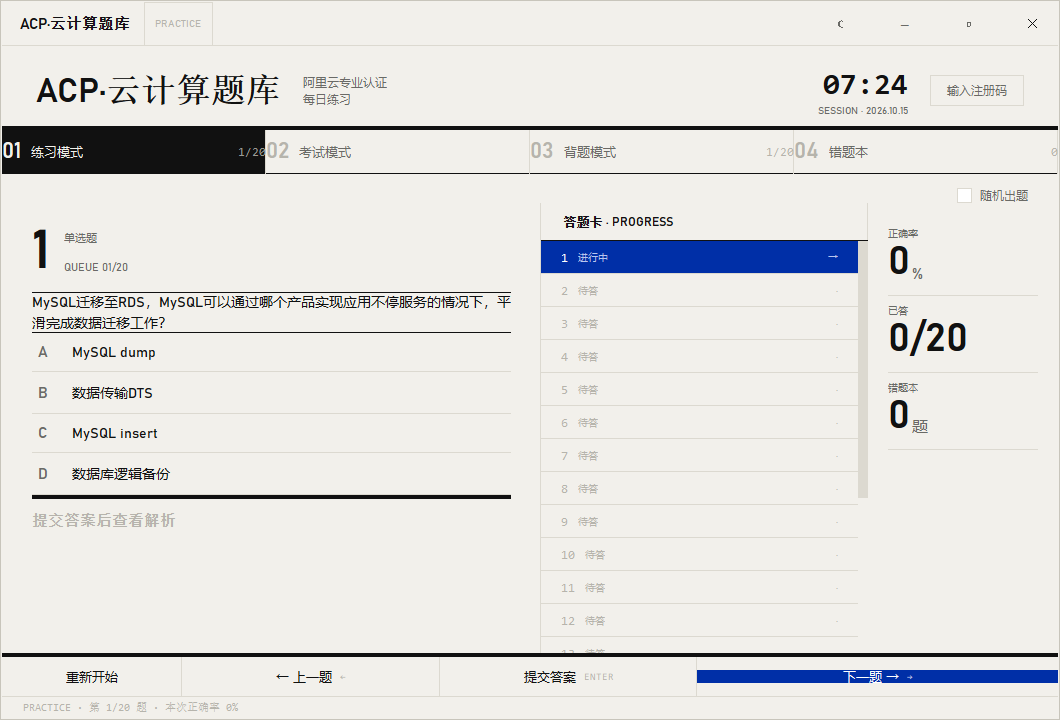
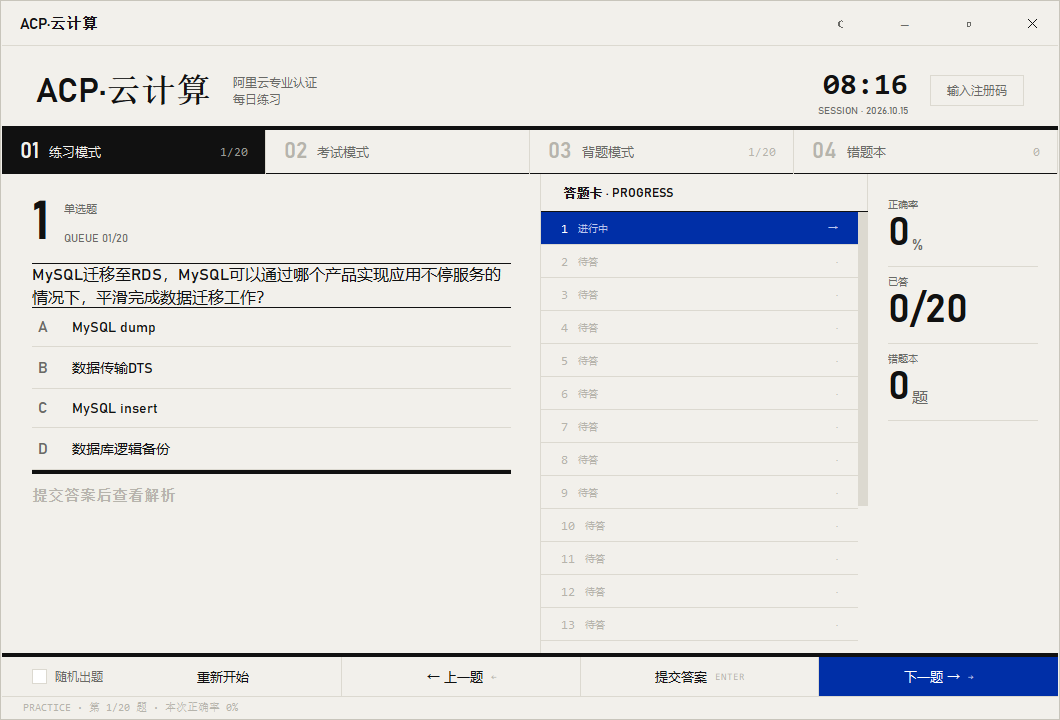
fix(ui): 二轮验收修复——品牌名/goBtn 塌陷/导航计数贴边/动作条重排
- 品牌 "ACP·云计算题库"→"ACP·云计算"（上轮自由发挥，按用户原话改回；
  BRAND_TEXT 单一来源，标题栏/站牌头/启动 splash 三处同步）
- goBtn 扁蓝条根因：goBtn QSS 缺 padding:13px——actBtn 有所以正常等高，
  唯 goBtn 是内容自然高度被压扁；补齐后四按钮等高。上轮只修了焦点
  未查出此项
- 导航计数贴右缘被邻行编号压住：QSS padding 对按钮内子布局不可靠
  （实测 6.12），inner 布局边距显式声明 (18,10,18,10)
- 移除标题栏 PRACTICE tag（TitleBar 删 tag 参数/_tag/set_tag 及 tbTag QSS）
- "随机出题"从独立工具行挪入动作条最左（PracticePanel 暴露
  actions_bar/actions_bar_layout，QSS 补 actionsBar QCheckBox 左边距）
- 动作条四按钮等宽（stretch 全 1，验收决策：不做 mockup go 1.4 加宽）
- 题干字号 14→16px（设计稿原值 14.5 与选项 14 几乎同大，按用户要求拉开）
- 测试：test_show_mode_switches_all_pages 去除 _tag 断言

门禁：mypy 34 文件 0 错 / ruff 绿 / pytest 325 passed；渲染截图逐项核对

diff --git a/ui/titlebar.py b/ui/titlebar.py
@@ -10,7 +10,7 @@
 
 用法（main_window 接入）：
     setup_frameless(self)                       # 去 frame + 边缘 resize
-    root_layout.addWidget(TitleBar(tag="PRACTICE"))  # 站牌条置顶
+    root_layout.addWidget(TitleBar())          # 站牌条置顶
 """
 
 from __future__ import annotations
@@ -23,7 +23,7 @@ from PySide6.QtWidgets import QFrame, QHBoxLayout, QLabel, QPushButton, QWidget
 
 from .theme import THEME_DARK
 
-BRAND_TEXT = "ACP·云计算题库"
+BRAND_TEXT = "ACP·云计算"
 
 _TITLEBAR_HEIGHT = 44
 _BTN_WIDTH = 50
@@ -46,12 +46,11 @@ _EDGE_CURSORS: tuple[tuple[int, Qt.CursorShape], ...] = (
 
 
 class TitleBar(QFrame):
-    """站牌条标题栏：brand + tag + 窗口按钮，空白菜区可拖拽移动窗口。"""
+    """站牌条标题栏：brand + 窗口按钮，空白菜区可拖拽移动窗口。"""
 
     def __init__(
         self,
         parent: QWidget | None = None,
-        tag: str = "",
         on_theme_toggle: Callable[[], None] | None = None,
     ) -> None:
         super().__init__(parent)
@@ -67,12 +66,6 @@ class TitleBar(QFrame):
         brand.setObjectName("tbBrand")
         layout.addWidget(brand)
 
-        self._tag = QLabel("", self)
-        self._tag.setObjectName("tbTag")
-        self._tag.setVisible(False)
-        layout.addWidget(self._tag)
-        self.set_tag(tag)
-
         layout.addStretch(1)
 
         # 主题切换钮（浅色显 ☾ = 点击入夜；深色显 ☀），无回调则不创建
@@ -86,12 +79,6 @@ class TitleBar(QFrame):
         self._btn_close = self._make_btn("✕", "close", self._close_window)
         # close 按钮挂专用 role，QSS 的 [role="close"]:hover 红底规则生效
         self._btn_close.setProperty("role", "close")
-
-    def set_tag(self, text: str) -> None:
-        """设置模式 tag（如 PRACTICE / EXAM），空串隐藏。"""
-        normalized = text.strip()
-        self._tag.setText(normalized.upper())
-        self._tag.setVisible(bool(normalized))
 
     def set_theme_icon(self, mode: str) -> None:
         """按当前主题模式更新切换钮符号（☾=当前浅色 / ☀=当前深色）。"""

diff --git a/ui/main_window.py b/ui/main_window.py
@@ -43,8 +43,7 @@ from .theme import (
     repolish,
     set_theme_mode,
 )
-from .titlebar import TitleBar, setup_frameless
-
+from .titlebar import BRAND_TEXT, TitleBar, setup_frameless
 from app_state import AppState
 from data_manager import DataManager
 from license import LicenseStatus
@@ -64,7 +63,6 @@ NAV_DEFS: tuple[tuple[str, str, str, str], ...] = (
     ("wrong", "04", "错题本", "WRONGBOOK"),
 )
 
-_BRAND = "ACP·云计算题库"
 _SUB = "阿里云专业认证\n每日练习"
 
 
@@ -138,7 +136,7 @@ class MainWindow(QMainWindow):
         v.setContentsMargins(1, 1, 1, 1)  # 让 windowRoot 的 1px 分界线可见
         v.setSpacing(0)
 
-        self.titlebar = TitleBar(tag=NAV_DEFS[0][3], on_theme_toggle=self.toggle_theme)
+        self.titlebar = TitleBar(on_theme_toggle=self.toggle_theme)
         self.titlebar.set_theme_icon(current_theme_mode())
         v.addWidget(self.titlebar)
 
@@ -164,7 +162,7 @@ class MainWindow(QMainWindow):
         h.setContentsMargins(34, 20, 34, 14)
         h.setSpacing(22)
 
-        brand = QLabel(_BRAND)
+        brand = QLabel(BRAND_TEXT)
         brand.setObjectName("brand")
         h.addWidget(brand)
 
@@ -224,7 +222,9 @@ class MainWindow(QMainWindow):
             btn.setFocusPolicy(Qt.FocusPolicy.NoFocus)
             btn.setCursor(Qt.CursorShape.PointingHandCursor)
             inner = QHBoxLayout(btn)
-            inner.setContentsMargins(0, 0, 0, 0)
+            # QSS padding 对按钮内子布局不可靠（实测 6.12 数字会贴死右缘
+            # 被邻行编号压住），边距在此显式声明
+            inner.setContentsMargins(18, 10, 18, 10)
             inner.setSpacing(10)
             lbl_no = QLabel(no)
             lbl_no.setProperty("navNo", True)
@@ -274,8 +274,6 @@ class MainWindow(QMainWindow):
             for lbl in (lbl_no, lbl_nm, lbl_cnt):
                 lbl.setProperty("navActive", active)
                 repolish(lbl)
-        tag = NAV_DEFS[index][3]
-        self.titlebar.set_tag(tag)
         self._refresh_nav_counts()
         self._update_modeline(key)
 

diff --git a/ui/theme.py b/ui/theme.py
@@ -188,10 +188,6 @@ QFrame#windowRoot { border: 1px solid %(PANEL_BORDER)s; }
 /* ── Frameless 标题栏（情况③：44px 站牌条）── */
 QFrame#titlebar { background: %(BG)s; border-bottom: 1px solid %(TITLEBAR_LINE)s; }
 QLabel#tbBrand { font-family: "%(SANS)s"; font-weight: 600; font-size: 15px; color: %(INK)s; }
-QLabel#tbTag {
-    color: %(INK3)s; border: 1px solid %(LINE)s;
-    padding: 2px 8px; font-size: 10px;
-}
 QPushButton[role="win"] {
     background: transparent; border: none; color: %(INK2)s;
     font-size: 11px; width: 50px;
@@ -242,7 +238,7 @@ QFrame#qcol { border-right: 1px solid %(LINE_SOFT)s; }
 QFrame#qline { border-bottom: 1px solid %(INK)s; }
 QLabel#qBig { font-family: "%(SANS)s"; font-weight: 600; font-size: 54px; color: %(INK)s; }
 QLabel#qMeta { color: %(INK2)s; font-size: 11px; }
-QLabel#stem { color: %(INK)s; font-size: 14px; }
+QLabel#stem { color: %(INK)s; font-size: 16px; }
 
 /* ── 选项 = 发牌板行 ── */
 QFrame#opts { border-top: 1px solid %(INK)s; }
@@ -298,12 +294,14 @@ QPushButton[actBtn="true"]:pressed { background: %(LINE)s; }
 QPushButton[actBtn="true"]:disabled { color: %(INK3)s; }
 QPushButton[actBtn="true"] QLabel { background: transparent; }
 QLabel[kbdHint] { font-family: "%(MONO)s"; font-size: 10px; color: %(INK3)s; }
-QPushButton#goBtn { background: %(ACCENT)s; color: %(ON_ACCENT)s; border: none; font-size: 13px; font-weight: 600; }
+QPushButton#goBtn { background: %(ACCENT)s; color: %(ON_ACCENT)s; border: none; font-size: 13px; font-weight: 600; padding: 13px; }
 QPushButton#goBtn:hover { background: %(ACCENT_DEEP)s; }
 QPushButton#goBtn:pressed { background: %(ACCENT_DEEP)s; }
 QPushButton#goBtn:disabled { background: %(LINE)s; color: %(INK2)s; }
 QPushButton#goBtn QLabel { background: transparent; color: %(ON_ACCENT)s; }
 QPushButton#goBtn QLabel[kbdHint] { color: %(ON_ACCENT_MUTED)s; }
+/* 随机出题等复选框入驻动作条：左侧留出站牌边距 */
+QFrame#actionsBar QCheckBox { margin-left: 30px; }
 
 /* ── modeline（底部状态行）── */
 QLabel#modeline {

diff --git a/ui/practice_mode.py b/ui/practice_mode.py
@@ -9,8 +9,6 @@ tkinter 版重写。视图渲染全部委托 PracticePanel；本类只负责：
 
 from PySide6.QtWidgets import (
     QCheckBox,
-    QFrame,
-    QHBoxLayout,
     QMessageBox,
     QVBoxLayout,
     QWidget,
@@ -50,16 +48,9 @@ class PracticeMode(BaseModePage):
         v.setContentsMargins(0, 0, 0, 0)
         v.setSpacing(0)
 
-        # 顶部工具行：随机出题开关（F 方案方角复选框，QSS QCheckBox 语义类）
-        tools = QFrame()
-        th = QHBoxLayout(tools)
-        th.setContentsMargins(30, 14, 30, 0)
-        th.setSpacing(0)
-        th.addStretch(1)
+        # "随机出题"入驻动作条最左（用户验收决策：原独立工具行视觉孤立）
         self.shuffle_check = QCheckBox("随机出题")
         self.shuffle_check.toggled.connect(self._on_shuffle_toggled)
-        th.addWidget(self.shuffle_check)
-        v.addWidget(tools)
 
         # P0 修复沿用：on_submit/on_navigate 必须接线，否则防抖保存永不触发
         self.panel = PracticePanel(
@@ -71,6 +62,9 @@ class PracticeMode(BaseModePage):
             on_restart=self.start_new_session,
         )
         v.addWidget(self.panel, 1)
+
+        # 复选框插到动作条最左（QSS QFrame#actionsBar QCheckBox 补左边距）
+        self.panel.actions_bar_layout.insertWidget(0, self.shuffle_check)
 
     # -------------------------------------------------------------- 钩子
     def _on_answer_submitted(self) -> None:

diff --git a/ui/practice_panel.py b/ui/practice_panel.py
@@ -31,8 +31,8 @@ from .question_detail_card import QuestionDetailCard, type_label
 
 # scol 统计列在窗口宽度低于该值时隐藏（TASK_PLAN §6.4 默认决策）
 SCOL_MIN_WIDTH = 900
-# actionsBar 按钮比例（mockup：上一题 1 / 提交 1 / 下一题 go 1.4，重启 0.7）
-_STRETCH_RESTART, _STRETCH_NAV, _STRETCH_SUBMIT, _STRETCH_GO = 7, 10, 10, 14
+# actionsBar 按钮等宽（用户验收决策：不做 mockup 的 go 1.4 加宽）
+_STRETCH_RESTART, _STRETCH_NAV, _STRETCH_SUBMIT, _STRETCH_GO = 1, 1, 1, 1
 
 
 def _make_action_button(text: str, kbd: str = "", go: bool = False) -> QPushButton:
@@ -145,6 +145,10 @@ class PracticePanel(QFrame):
         bh.addWidget(self.next_btn, _STRETCH_GO)
 
         v.addWidget(bar)
+        # 供宿主模式页追加动作条控件（如练习页的"随机出题"复选框）；
+        # 布局单存一份：QLayout 基类 stub 无 insertWidget，QBoxLayout 才有
+        self.actions_bar = bar
+        self.actions_bar_layout = bh
 
     # -------------------------------------------------------------- 渲染
     def load_current_question(self) -> None:

diff --git a/tests/unit/test_main_window_ui.py b/tests/unit/test_main_window_ui.py
@@ -89,11 +89,10 @@ def test_license_btn_authorized_disabled(qtbot, tmp_path):
 
 
 def test_show_mode_switches_all_pages(window):
-    """四模式切换：nav 反白、titlebar tag、modeline 联动。"""
-    for key, _no, _name, tag in NAV_DEFS:
+    """四模式切换：nav 反白、modeline 联动（titlebar tag 已按验收决策移除）。"""
+    for key, _no, _name, _tag in NAV_DEFS:
         window.show_mode(key)
         assert window.stack.currentIndex() == [d[0] for d in NAV_DEFS].index(key)
-        assert window.titlebar._tag.text() == tag
         btn = window._nav_buttons[key][0]
         assert btn.isChecked() is True
         assert window.modeline.text()
